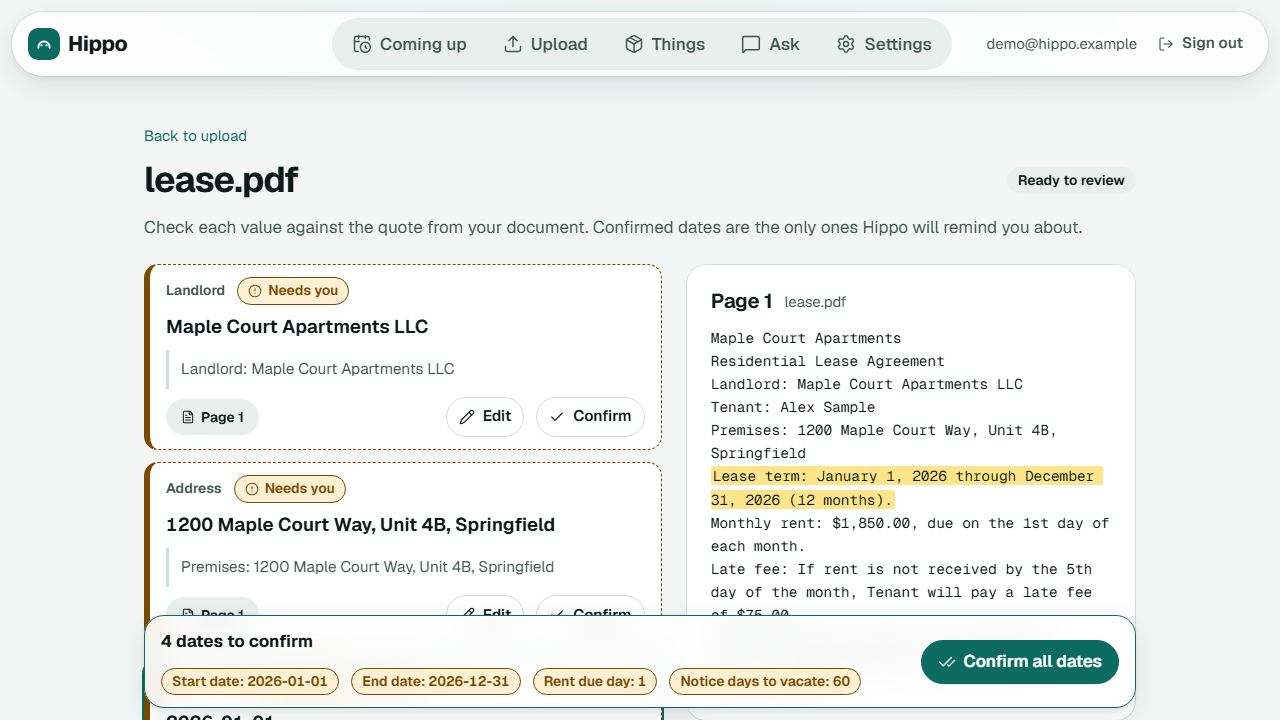
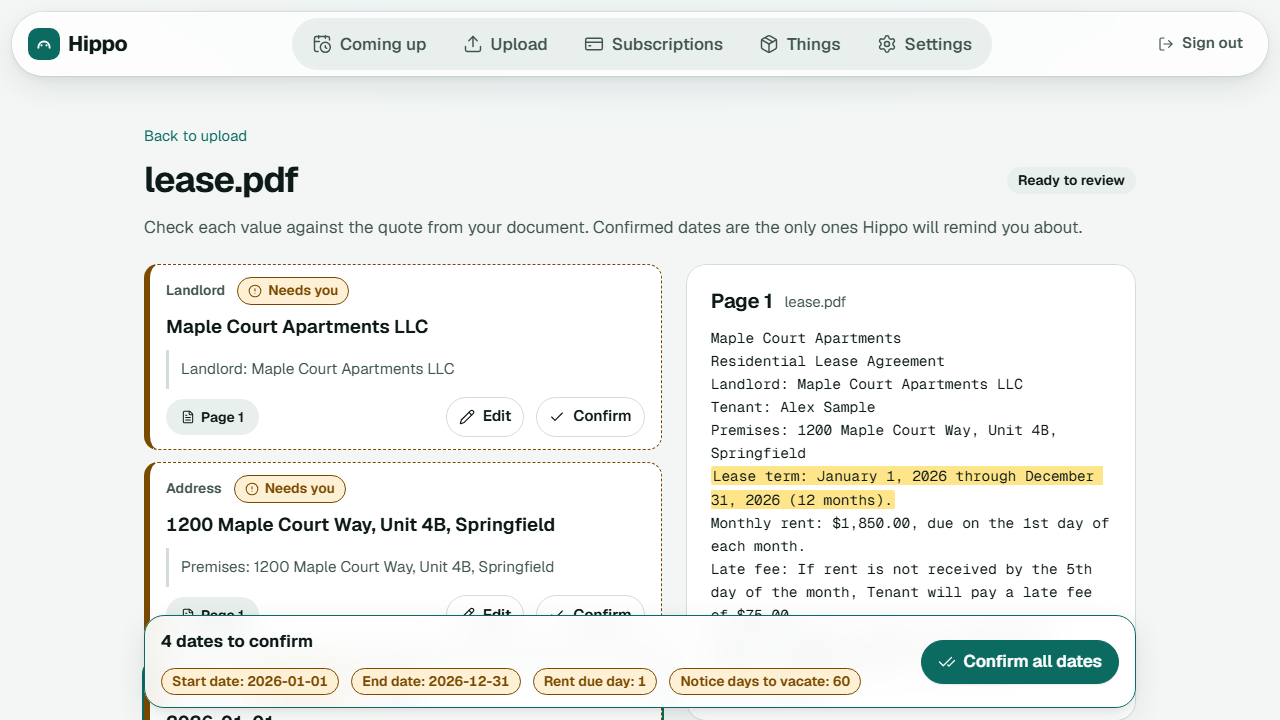
docs(web): privacy and terms that say what the product does, a truthful Chrome extension section, and fresh landing screenshots

Changed region(s): [[0.25, 0.0306, 0.5625, 0.0917], [0.5938, 0.0306, 0.875, 0.0917]]

diff --git a/apps/web/src/pages/Legal.tsx b/apps/web/src/pages/Legal.tsx
@@ -3,15 +3,23 @@ import { Brand, Footer } from "../components/Layout";
 
 const PRIVACY: [string, string][] = [
   [
-    "What Hippo stores",
-    "The documents you upload, the fields read from them (dates, terms, contacts), and the text of each page so you can see where a value came from. In a hosted setup the files sit in an encrypted bucket. The demo build keeps everything in memory on one computer and forgets it when stopped.",
+    "What Hippo keeps",
+    "The documents you upload, the dates and terms read from them with the exact quote and page each came from, whether you confirmed each one, the things and subscriptions built from them, your settings, and the email address you sign in with. It is kept for your household and is only shown to you.",
+  ],
+  [
+    "The browser extension",
+    "The extension reads a page only after you click its button, and only that tab. It reads the visible text, the page title and the site name, never form values, never the page address and never anything in the background. Nothing is sent until you press Save, and the popup tells you how much text will be sent. Long numbers are masked in your browser before they are sent.",
+  ],
+  [
+    "Signing in",
+    "You sign in with a code sent to your email, or with Google. Google only tells Hippo which email address you control. Hippo asks Google for nothing else.",
   ],
   [
     "What Hippo does not do",
-    "It does not read your email or your bank. It only knows what you upload, tell it, or save yourself with the browser extension.",
+    "It does not read your email or your bank. It only knows what you upload, tell it, or save yourself with the extension. It does not sell your data and does not use it for advertising.",
   ],
   ["Numbers", "Policy and account numbers are shown with only the last 4 digits."],
-  ["Logs", "Document text is never written to logs."],
+  ["Logs", "Hippo is built so the text of your documents is not written to its logs."],
   [
     "Email",
     "If you turn on the daily email, it names what is due soon and links back here. It never includes a full policy or account number.",

diff --git a/apps/web/src/landing/Rest.tsx b/apps/web/src/landing/Rest.tsx
@@ -1,4 +1,4 @@
-import { ArrowRight, FileCheck2, FilePlus2, Hash, KeyRound, Mail, Puzzle, Trash2 } from "lucide-react";
+import { ArrowRight, FileCheck2, FilePlus2, Hash, KeyRound, Puzzle, Trash2 } from "lucide-react";
 import { Link } from "react-router";
 import { DemoLink, HOSTED, REPO_URL } from "./DemoLink";
 
@@ -41,11 +41,12 @@ export function Trust() {
 export function Planned() {
   return (
     <section id="planned" className="lp-wrap lp-planned" aria-labelledby="planned-h">
-      <p className="lp-eyebrow">Planned, not built yet</p>
-      <h2 id="planned-h">Planned: a Chrome extension</h2>
+      <p className="lp-eyebrow">Hippo for Chrome</p>
+      <h2 id="planned-h">Save a billing page in one click</h2>
       <p className="lp-lead">
-        Save a file from any page and get a reminder by email when it matters. This is on the roadmap. Today, Hippo
-        works through the web app and an Alexa+ style voice demo.
+        Open a billing page or a receipt, click Hippo, and press Save. Nothing is read until you click and nothing is
+        sent until you press Save. Hippo adds the subscription to your list, and nothing alerts you until you confirm
+        its dates. The extension is being prepared for the Chrome Web Store.
       </p>
       <div className="lp-browser" aria-hidden="true">
         <div className="lp-browser-bar">
@@ -60,8 +61,8 @@ export function Planned() {
             Save to Hippo
           </span>
           <span>
-            <Mail size={18} strokeWidth={1.75} />
-            Reminder by email
+            <FileCheck2 size={18} strokeWidth={1.75} />
+            Review before any reminder
           </span>
         </div>
       </div>

diff --git a/apps/web/src/landing/Header.tsx b/apps/web/src/landing/Header.tsx
@@ -17,7 +17,7 @@ export function Header() {
           </Link>
           <nav aria-label="Main" className="lp-nav-links">
             <a href="#story">How it works</a>
-            <a href="#planned">Roadmap</a>
+            <a href="#planned">Chrome extension</a>
             <DemoLink className="lp-btn" label="Try the demo" />
           </nav>
         </div>
